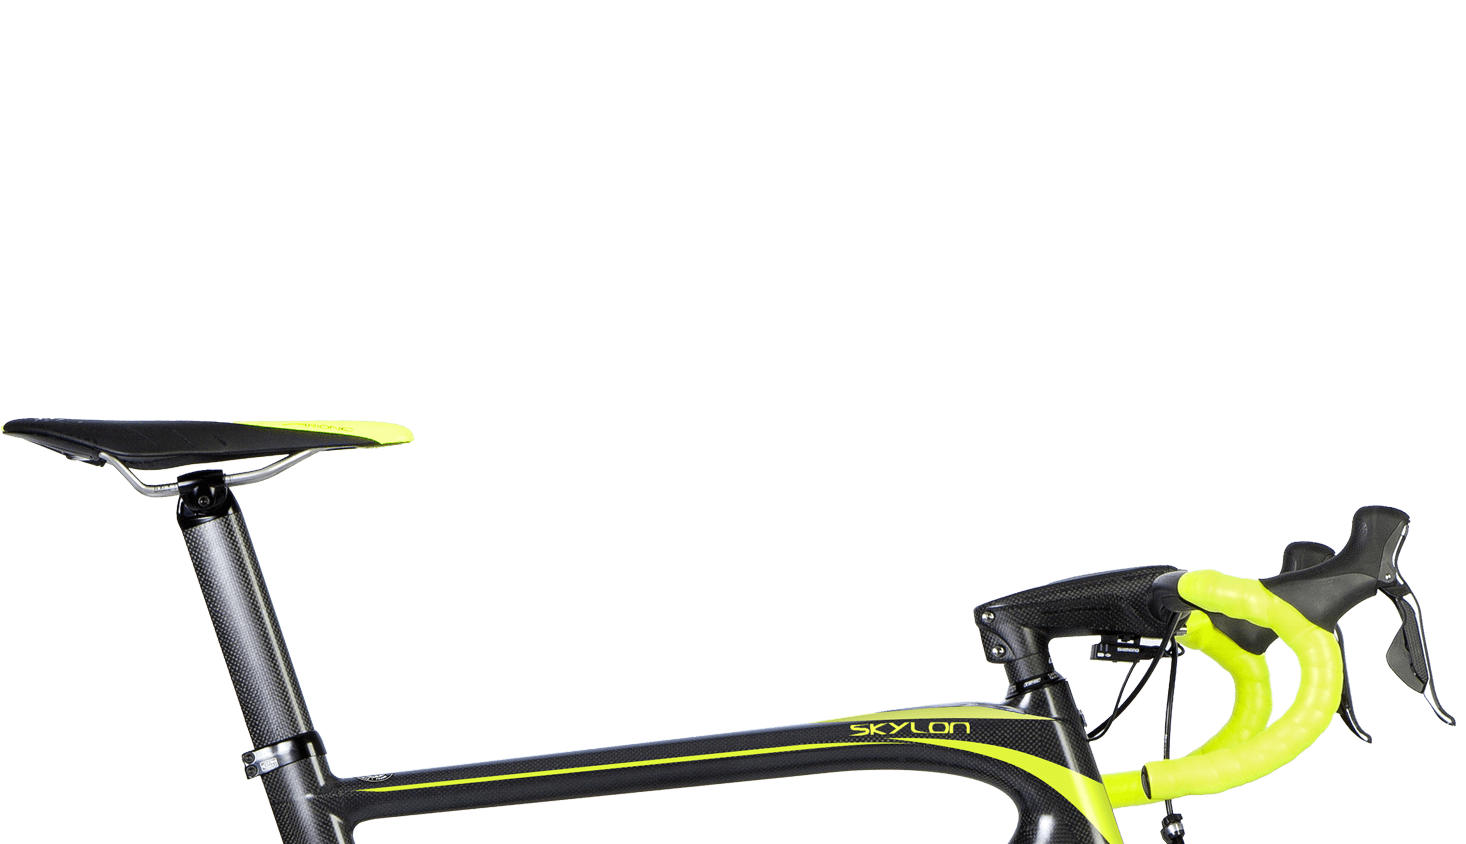
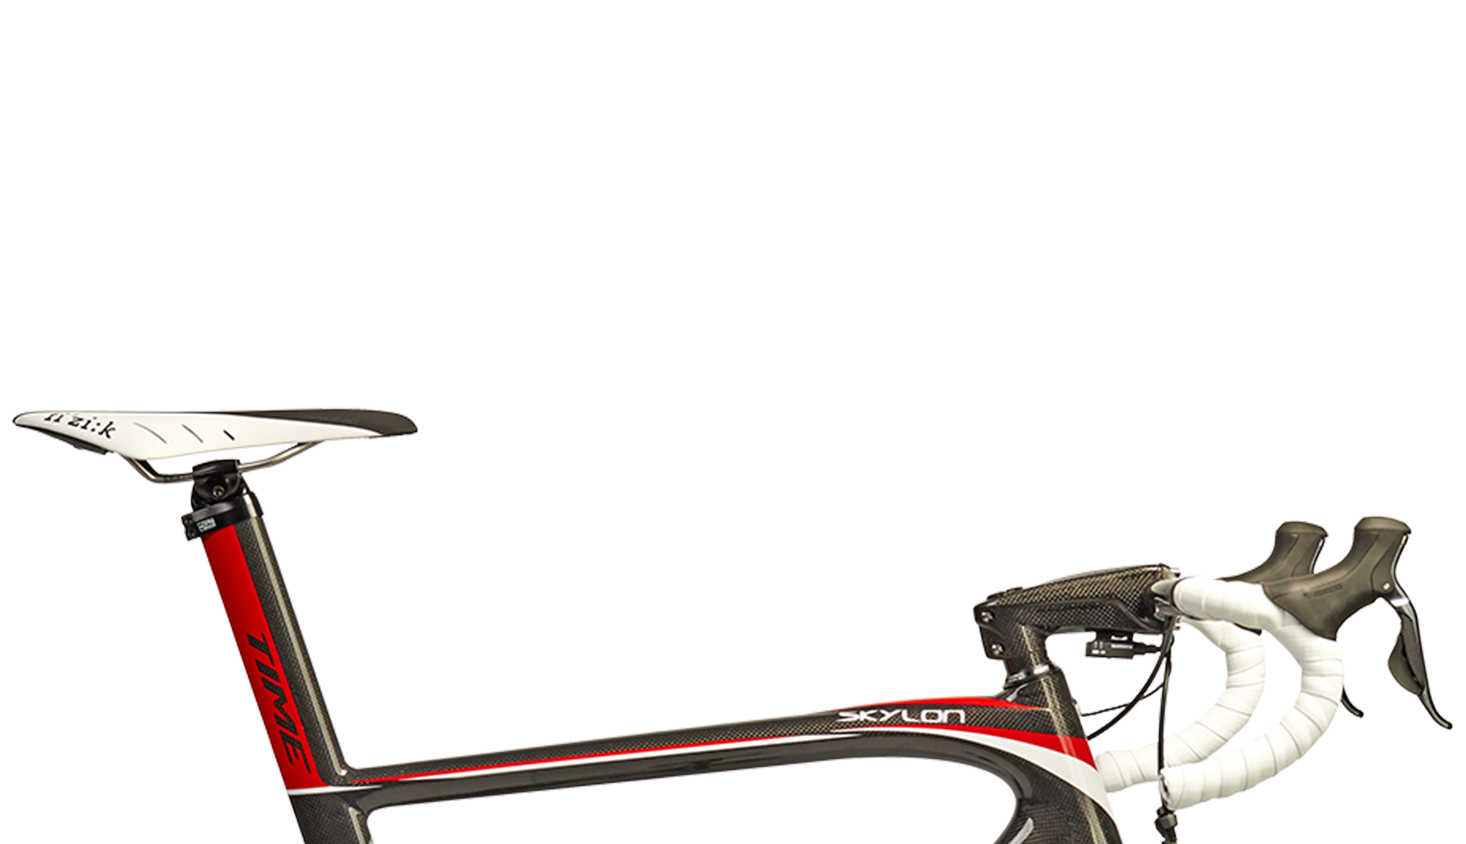
edit load_home_fluidity method

Changed region(s): [[0.0, 0.4621, 1.0, 1.0]]

diff --git a/app/controllers/application_controller.rb b/app/controllers/application_controller.rb
@@ -46,8 +46,8 @@ class ApplicationController < ActionController::Base
     bike = Refinery::Bikes::Bike.where(name: 'Fluidity')
     bike.each do |b|
       @fluidity_bike_type = b.bike_type
-      @fluidity_aktiv = b.colors.where(name: "Fluidity | Black AKTIV")
-      @fluidity = b.colors.where(name: "Fluidity | White")
+      @fluidity_aktiv = b.colors.where(name: "Fluidity | White AKTIV")
+      @fluidity = b.colors.where(name: "Fluidity | Graphite")
       @fluidity_path = b.slug
     end
   end
